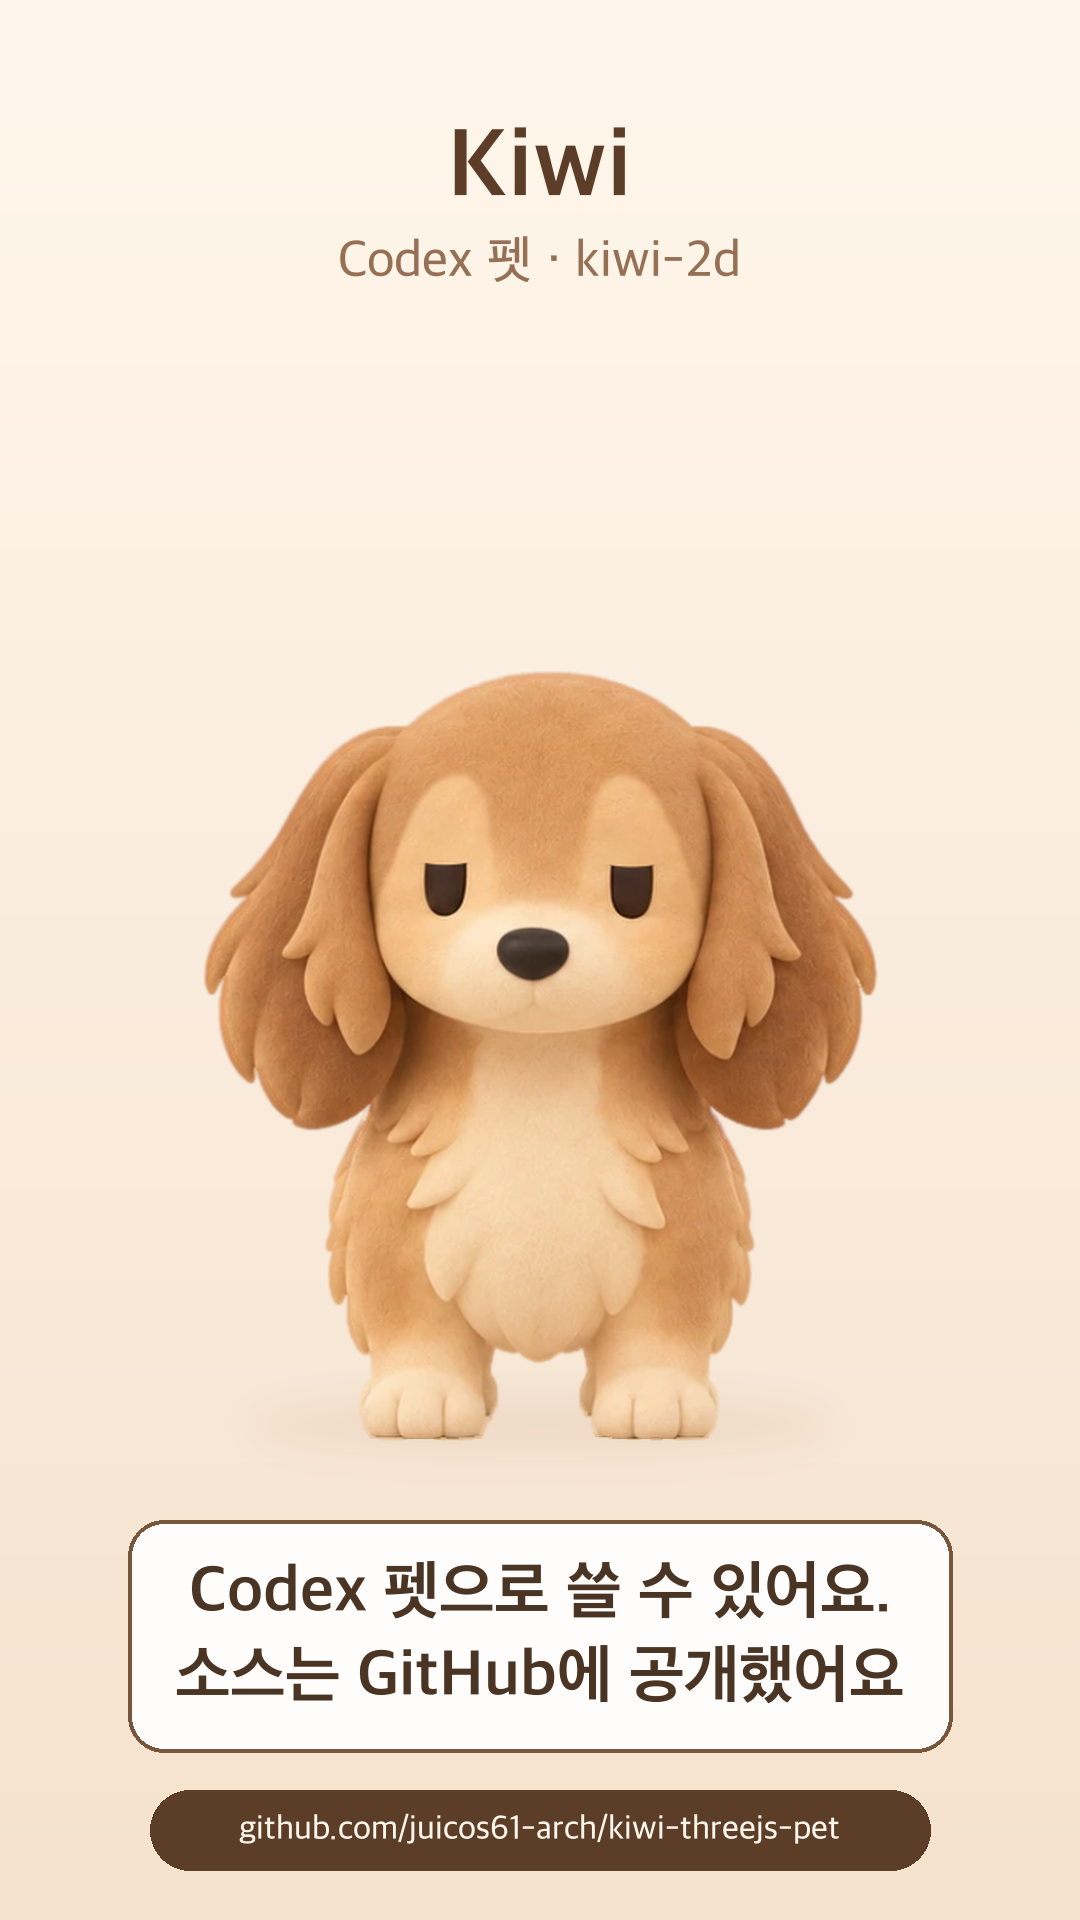
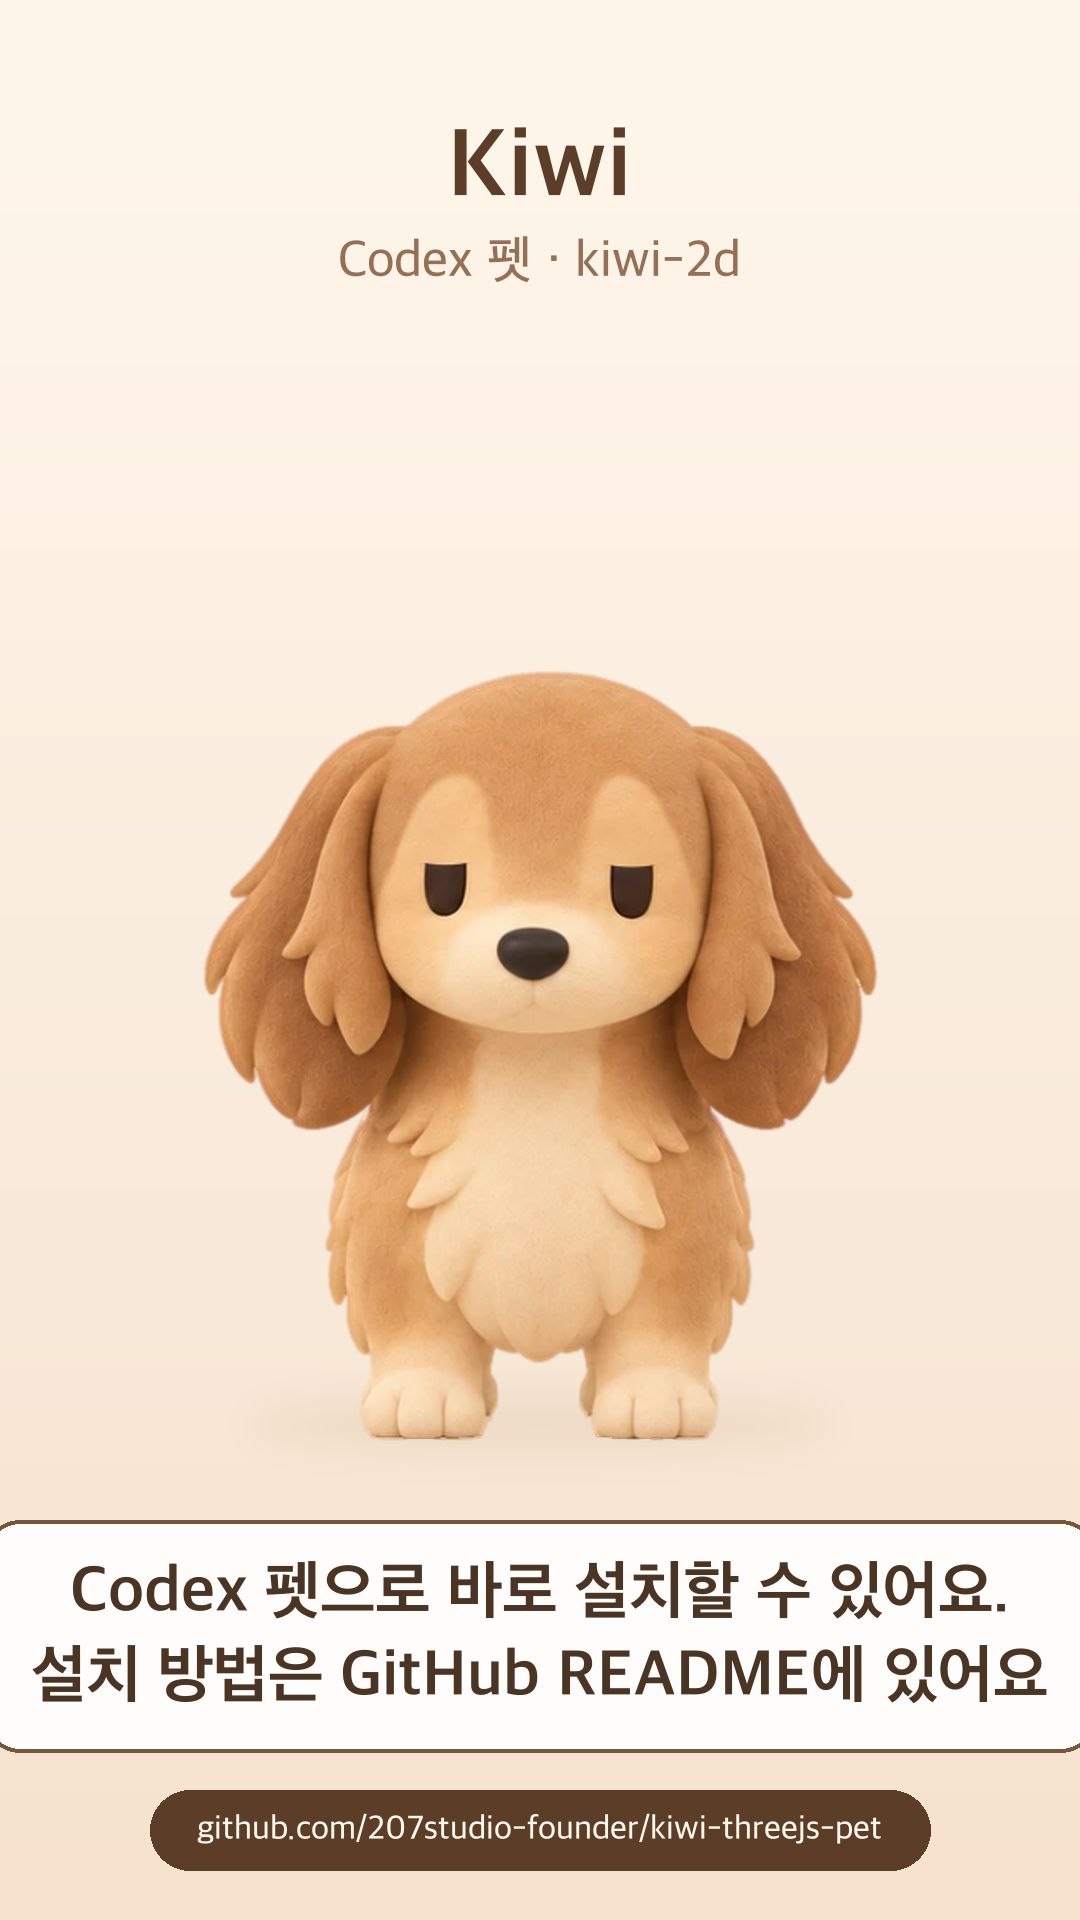
docs: owner is now 207studio-founder; refresh previews with new repo URL

Changed region(s): [[0.0, 0.7812, 1.0, 0.9375], [0.1833, 0.9375, 0.825, 0.9688]]

diff --git a/README.md b/README.md
@@ -16,14 +16,14 @@ macOS / Linux 터미널에 붙여 넣으세요(이미 같은 폴더가 있으면
 pet_dir="${CODEX_HOME:-$HOME/.codex}/pets/kiwi-2d"
 [ -e "$pet_dir" ] && { echo "already exists: $pet_dir"; } || {
   mkdir -p "$pet_dir" &&
-  base=https://raw.githubusercontent.com/juicos61-arch/kiwi-threejs-pet/main/dist/kiwi-2d &&
+  base=https://raw.githubusercontent.com/207studio-founder/kiwi-threejs-pet/main/dist/kiwi-2d &&
   curl -fsSL -o "$pet_dir/pet.json" "$base/pet.json" &&
   curl -fsSL -o "$pet_dir/spritesheet.webp" "$base/spritesheet.webp" &&
   echo "installed: $pet_dir"
 }
 ```
 
-또는 [Releases](https://github.com/juicos61-arch/kiwi-threejs-pet/releases)의 `kiwi-2d.zip`을 받아 `~/.codex/pets/kiwi-2d/`에 `pet.json`과 `spritesheet.webp`를 넣으세요.
+또는 [Releases](https://github.com/207studio-founder/kiwi-threejs-pet/releases)의 `kiwi-2d.zip`을 받아 `~/.codex/pets/kiwi-2d/`에 `pet.json`과 `spritesheet.webp`를 넣으세요.
 Or download `kiwi-2d.zip` from Releases and put `pet.json` + `spritesheet.webp` into `~/.codex/pets/kiwi-2d/`.
 
 그다음 Codex의 펫 선택 화면에서 **Kiwi**를 고르세요(선택 화면 구성은 Codex 버전에 따라 다를 수 있습니다). / Then pick **Kiwi** in Codex's pet picker (the picker may differ by Codex version).
@@ -106,7 +106,7 @@ docs/                       미리보기 GIF·썸네일
 
 ## 라이선스
 
-- **코드**(`src/`, `tools/`, `server.mjs`, `*.html`, 설정 파일): [MIT](LICENSE), © 2026 juicos61-arch.
+- **코드**(`src/`, `tools/`, `server.mjs`, `*.html`, 설정 파일): [MIT](LICENSE), © 2026 207studio-founder.
 - 그림에 대한 예외는 [ARTWORK.md](ARTWORK.md)에도 적어 두었습니다.
 - **그림**(`assets/source/kiwi_turnaround.webp`, `assets/derived/*`, `dist/kiwi-2d/spritesheet.webp`, `docs/*` 이미지): **MIT 적용 대상이 아닙니다.**
   저장소 소유자가 권리를 보유하며, 공개 재사용 조건은 아직 정해지지 않았습니다. 이 프로젝트를 실행·빌드하고 살펴보는 목적의 사용 외에는, 재배포·수정·상업적 이용 전에 소유자에게 문의해 주세요.

diff --git a/ARTWORK.md b/ARTWORK.md
@@ -8,7 +8,7 @@ character artwork of Kiwi:
 - `dist/kiwi-2d/spritesheet.webp`
 - images in `docs/`
 
-The repository owner (juicos61-arch) retains the rights to this artwork. Terms for
+The repository owner (207studio-founder) retains the rights to this artwork. Terms for
 public reuse have not been decided yet. You may use it to run, build and study this
 project; please contact the owner before redistributing, modifying or using it
 commercially.
